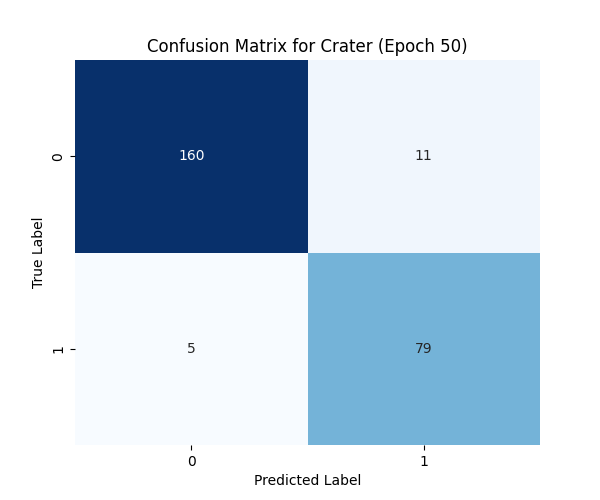
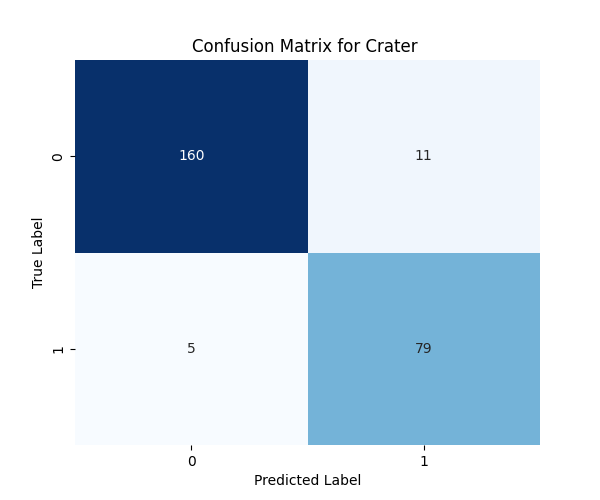
chang confuson metrix to normalize

Changed region(s): [[0.24, 0.06, 0.78, 0.12]]

diff --git a/code/greyscale/classify_2D.py b/code/greyscale/classify_2D.py
@@ -25,7 +25,7 @@ warnings.filterwarnings("ignore", category=FutureWarning, module="torch")
 
 # Global variables
 results = []
-MODEL_NAME = "greyscale_testrun_run_5"
+MODEL_NAME = "greyscale_testrun_run_1"
 DATASET_DIR = "./dataset_agreed"
 IMAGE_SIZE = (150,150)
 NUM_LABELS = 4
@@ -193,12 +193,28 @@ def classify_images(MODEL_PATH, epoch, MODEL_NAME):
           f"Balanced Recall = {bal_recall_lbl:.4f}")
         
         # Generate and save confusion matrix for each label
+        cm_normal = confusion_matrix(true_for_label, pred_for_label, normalize='true')
+        print(f"Normalized confusion matrix for {label_name}:\n{cm_normal}")
+        plt.figure(figsize=(6, 5))
+        sns.heatmap(cm_normal, annot=True, fmt='.2f', cmap='Blues', cbar=False,
+                    xticklabels=['0', '1'],
+                    yticklabels=['0', '1'])
+        plt.title(f'Confusion Matrix for {label_name} ')
+        plt.xlabel('Predicted Label')
+        plt.ylabel('True Label')
+        cm_output_path = epoch_output_dir / f"confusion_matrix_normalized_{label_name}.png"
+        plt.savefig(cm_output_path)
+        plt.close()
+        print(f"Confusion matrix for {label_name} saved to {cm_output_path}")
+
+        # Generate and save confusion matrix for each label
         cm = confusion_matrix(true_for_label, pred_for_label)
+        print(f"Confusion matrix for {label_name} (counts):\n{cm}")
         plt.figure(figsize=(6, 5))
         sns.heatmap(cm, annot=True, fmt='d', cmap='Blues', cbar=False,
                     xticklabels=['0', '1'],
                     yticklabels=['0', '1'])
-        plt.title(f'Confusion Matrix for {label_name} (Epoch {epoch})')
+        plt.title(f'Confusion Matrix for {label_name} ')
         plt.xlabel('Predicted Label')
         plt.ylabel('True Label')
         cm_output_path = epoch_output_dir / f"confusion_matrix_{label_name}.png"
@@ -206,7 +222,6 @@ def classify_images(MODEL_PATH, epoch, MODEL_NAME):
         plt.close()
         print(f"Confusion matrix for {label_name} saved to {cm_output_path}")
 
-    #multilabel consufion mayrix
     num_labels = len(dataset.label_cols)
     multi_label_cm = np.zeros((num_labels, num_labels), dtype=int)
     for true_vec, pred_vec in zip(all_true_labels, all_predicted_binary_labels):
@@ -215,15 +230,30 @@ def classify_images(MODEL_PATH, epoch, MODEL_NAME):
         for t in true_indices:
             for p in pred_indices:
                 multi_label_cm[t, p] += 1
+    
+    print("Multi-label confusion matrix (counts):")
+    print(multi_label_cm)
 
+    # normalize by row
+    row_sums = multi_label_cm.sum(axis=1, keepdims=True)
+    multi_label_cm_normalized = np.divide(
+        multi_label_cm, row_sums, 
+        out=np.zeros_like(multi_label_cm, dtype=float), 
+        where=row_sums != 0
+    )
+
+    # Print normalized multi-label confusion matrix
+    print("Normalized multi-label confusion matrix:")
+    print(np.round(multi_label_cm_normalized, 4))
+    
     plt.figure(figsize=(8, 6))
-    sns.heatmap(multi_label_cm, annot=True, fmt='d', cmap='Blues',
+    sns.heatmap(multi_label_cm_normalized, annot=True, fmt='.2f', cmap='Blues',
                 xticklabels=dataset.label_cols,
                 yticklabels=dataset.label_cols)
     plt.xlabel('Predicted Label')
     plt.ylabel('True Label')
-    plt.title(f'Multi-label Confusion Matrix (Epoch {epoch})')
-    multi_label_cm_path = epoch_output_dir / "multi_label_confusion_matrix.png"
+    plt.title('Normalized Multi-label Confusion Matrix')
+    multi_label_cm_path = epoch_output_dir / "multi_label_confusion_matrix_normalized.png"
     plt.savefig(multi_label_cm_path)
     plt.close()
     print(f"Multi-label confusion matrix saved to {multi_label_cm_path}")
@@ -232,19 +262,19 @@ def classify_images(MODEL_PATH, epoch, MODEL_NAME):
     true_classes = np.argmax(all_true_labels, axis=1)
     pred_classes = np.argmax(all_predicted_binary_labels, axis=1)
 
-    multi_class_cm = confusion_matrix(true_classes, pred_classes)
+    # multi_class_cm = confusion_matrix(true_classes, pred_classes,normalize='true')
 
-    plt.figure(figsize=(8, 6))
-    sns.heatmap(multi_class_cm, annot=True, fmt='d', cmap='Oranges',
-                xticklabels=dataset.label_cols,
-                yticklabels=dataset.label_cols)
-    plt.xlabel('Predicted')
-    plt.ylabel('True')
-    plt.title(f'Multi-class Confusion Matrix (Epoch {epoch})')
-    multi_class_cm_path = epoch_output_dir / "multi_class_confusion_matrix.png"
-    plt.savefig(multi_class_cm_path)
-    plt.close()
-    print(f"Multi-class confusion matrix saved to {multi_class_cm_path}")
+    # plt.figure(figsize=(8, 6))
+    # sns.heatmap(multi_class_cm, annot=True, fmt='.2f', cmap='Oranges',
+    #             xticklabels=dataset.label_cols,
+    #             yticklabels=dataset.label_cols)
+    # plt.xlabel('Predicted')
+    # plt.ylabel('True')
+    # plt.title(f'Multi-class Confusion Matrix')
+    # multi_class_cm_path = epoch_output_dir / "multi_class_confusion_matrix_normalized.png"
+    # plt.savefig(multi_class_cm_path)
+    # plt.close()
+    # print(f"Multi-class confusion matrix saved to {multi_class_cm_path}")
 
     #calculate avg inference time per sample
     avg_inference_time = np.mean(inference_times)
@@ -277,36 +307,36 @@ def classify_images(MODEL_PATH, epoch, MODEL_NAME):
     
     # Save results to a text file
     txt_output_path = epoch_output_dir / "multi_label_scores.txt"
-    with open(txt_output_path, "a") as f:
-        f.write(f"\n--- Epoch {epoch}, Model: {MODEL_NAME} ---\n")
-        f.write(f"{datetime.datetime.now()}---\n")
-        f.write(f"nr of inputpoints 150x150---\n")
+    # with open(txt_output_path, "a") as f:
+    #     f.write(f"\n--- Epoch {epoch}, Model: {MODEL_NAME} ---\n")
+    #     f.write(f"{datetime.datetime.now()}---\n")
+    #     f.write(f"nr of inputpoints 150x150---\n")
 
-        total_inference_time = sum(inference_times)
-        avg_inference_time = np.mean(inference_times)
-        f.write(f"Total inference time: {total_inference_time:.4f} seconds\n")
-        f.write(f"Average inference time per sample: {avg_inference_time:.6f} seconds\n")
+    #     total_inference_time = sum(inference_times)
+    #     avg_inference_time = np.mean(inference_times)
+    #     f.write(f"Total inference time: {total_inference_time:.4f} seconds\n")
+    #     f.write(f"Average inference time per sample: {avg_inference_time:.6f} seconds\n")
         
-        f.write(f"Mean Label Accuracy: {mean_label_accuracy:.2f}%\n")
-        f.write(f"Mean Label F1 Score: {mean_label_f1:.4f}\n")
-        f.write(f"Instance (Exact Match) Accuracy: {instance_accuracy:.2f}%\n")
+    #     f.write(f"Mean Label Accuracy: {mean_label_accuracy:.2f}%\n")
+    #     f.write(f"Mean Label F1 Score: {mean_label_f1:.4f}\n")
+    #     f.write(f"Instance (Exact Match) Accuracy: {instance_accuracy:.2f}%\n")
         
-        f.write("Per-Label Metrics:\n")
-        for label_name, acc, f1 in zip(dataset.label_cols, per_label_accuracy, per_label_f1):
-            idx = dataset.label_cols.index(label_name)
-            true_for_label = all_true_labels[:, idx]
-            pred_for_label = all_predicted_binary_labels[:, idx]
-            bal_acc_lbl = balanced_accuracy_score(true_for_label, pred_for_label) * 100
-            bal_prec_lbl = precision_score(true_for_label, pred_for_label, zero_division=0)
-            bal_recall_lbl = recall_score(true_for_label, pred_for_label, zero_division=0)
-            f.write(f"   {label_name}: Accuracy = {acc:.2f}%, F1 = {f1:.4f}, "
-                    f"Balanced Acc = {bal_acc_lbl:.2f}%, "
-                    f"Balanced Precision = {bal_prec_lbl:.4f}, "
-                    f"Balanced Recall = {bal_recall_lbl:.4f}\n")
+    #     f.write("Per-Label Metrics:\n")
+    #     for label_name, acc, f1 in zip(dataset.label_cols, per_label_accuracy, per_label_f1):
+    #         idx = dataset.label_cols.index(label_name)
+    #         true_for_label = all_true_labels[:, idx]
+    #         pred_for_label = all_predicted_binary_labels[:, idx]
+    #         bal_acc_lbl = balanced_accuracy_score(true_for_label, pred_for_label) * 100
+    #         bal_prec_lbl = precision_score(true_for_label, pred_for_label, zero_division=0)
+    #         bal_recall_lbl = recall_score(true_for_label, pred_for_label, zero_division=0)
+    #         f.write(f"   {label_name}: Accuracy = {acc:.2f}%, F1 = {f1:.4f}, "
+    #                 f"Balanced Acc = {bal_acc_lbl:.2f}%, "
+    #                 f"Balanced Precision = {bal_prec_lbl:.4f}, "
+    #                 f"Balanced Recall = {bal_recall_lbl:.4f}\n")
         
-        f.write("ROC AUC for each label:\n")
-        for label_name, data in roc_data.items():
-            f.write(f"   {label_name}: AUC = {data['auc']:.4f}\n")
+    #     f.write("ROC AUC for each label:\n")
+    #     for label_name, data in roc_data.items():
+    #         f.write(f"   {label_name}: AUC = {data['auc']:.4f}\n")
 
     print(f"Evaluation results saved to {txt_output_path}")
 
@@ -325,7 +355,7 @@ def classify_images(MODEL_PATH, epoch, MODEL_NAME):
     
     writer = pd.ExcelWriter(excel_output_path, engine='xlsxwriter')
 
-    df_results.to_excel(writer, sheet_name='Predictions', index=False)
+    # df_results.to_excel(writer, sheet_name='Predictions', index=False)
 
     workbook = writer.book
     worksheet = writer.sheets['Predictions']
@@ -340,7 +370,7 @@ if __name__ == "__main__":
     all_epochs_roc_data = [] 
 
     # Iterate through saved model checkpoints, they are saved every 10 epochs
-    for epoch in range(0, 151, 10):
+    for epoch in range(40, 41, 10):
         MODEL_PATH = f"dataset_agreed/saved_models/baserun/{MODEL_NAME}/model_epoch_{epoch}.pth"
         # if model does not exist, skip
         if not os.path.exists(MODEL_PATH):
@@ -382,6 +412,6 @@ if __name__ == "__main__":
 
         output_dir = Path(f"{DATASET_DIR}/saved_models/baserun/{MODEL_NAME}/")
         os.makedirs(output_dir, exist_ok=True)
-        plt.savefig(os.path.join(output_dir, f"combined_roc_curve_{label_name}.png"))
+        # plt.savefig(os.path.join(output_dir, f"combined_roc_curve_{label_name}.png"))
         plt.show()
         plt.close()

diff --git a/code/pointcloud/classify_pointcloud.py b/code/pointcloud/classify_pointcloud.py
@@ -203,6 +203,20 @@ def classify_point_clouds(epoch):
         plt.close()
         print(f"Confusion matrix for {label_name} saved to {cm_output_path}")
 
+        # Generate and save confusion matrix for each label
+        cm_normalized = confusion_matrix(true_for_label, pred_for_label, normalize='true')
+        plt.figure(figsize=(6, 5))
+        sns.heatmap(cm_normalized, annot=True, fmt='.2f', cmap='Blues', cbar=False,
+                    xticklabels=['0', '1'],
+                    yticklabels=['0', '1'])
+        plt.title(f'Confusion Matrix for {label_name} (Epoch {epoch})')
+        plt.xlabel('Predicted Label')
+        plt.ylabel('True Label')
+        cm_output_path = epoch_output_dir / f"confusion_matrix_normalized_{label_name}.png"
+        plt.savefig(cm_output_path)
+        plt.close()
+        print(f"Confusion matrix for {label_name} saved to {cm_output_path}")
+
     # Calculate overall mean metrics
     mean_label_accuracy = np.mean(per_label_accuracy)
     mean_label_f1 = np.mean(per_label_f1)
@@ -234,6 +248,21 @@ def classify_point_clouds(epoch):
             for p in np.where(p_vec==1)[0]:
                 multi_label_cm[t,p] += 1
 
+    print("Multi-label confusion matrix (counts):")
+    print(multi_label_cm)
+
+    # normalize by row
+    row_sums = multi_label_cm.sum(axis=1, keepdims=True)
+    multi_label_cm_normalized = np.divide(
+        multi_label_cm, row_sums, 
+        out=np.zeros_like(multi_label_cm, dtype=float), 
+        where=row_sums != 0
+    )
+
+    # Print normalized multi-label confusion matrix
+    print("Normalized multi-label confusion matrix:")
+    print(np.round(multi_label_cm_normalized, 4))
+
     plt.figure(figsize=(8,6))
     sns.heatmap(multi_label_cm, annot=True, fmt='d', cmap='Blues',
                 xticklabels=dataset.label_cols, yticklabels=dataset.label_cols)
@@ -257,31 +286,31 @@ def classify_point_clouds(epoch):
 
     # Save results to a text file
     # Save results to a text file
-    txt_output_path = epoch_output_dir / "multi_label_scores.txt"
-    with open(txt_output_path, "a") as f:
-        f.write(f"\n--- Epoch {epoch}, Model: {MODEL_NAME} ---\n")
-        f.write(f"{datetime.datetime.now()}---\n")
-        f.write(f"nr of inputpoints {NUM_POINTS}---\n")
-        f.write(f"Total inference time: {total_inference_time:.4f} seconds\n")
-        f.write(f"Average inference time per sample: {avg_inference_time:.6f} seconds\n")
-        f.write(f"Mean Label Accuracy: {mean_label_accuracy:.2f}%\n")
-        f.write(f"Mean Label F1 Score: {mean_label_f1:.4f}\n")
-        f.write(f"Instance (Exact Match) Accuracy: {instance_accuracy:.2f}%\n")
-        f.write("Per-Label Metrics:\n")
-        for label_name, acc, f1 in zip(dataset.label_cols, per_label_accuracy, per_label_f1):
-            idx = dataset.label_cols.index(label_name)
-            true_for_label = all_true_labels[:, idx]
-            pred_for_label = all_predicted_binary_labels[:, idx]
-            bal_acc_lbl = balanced_accuracy_score(true_for_label, pred_for_label) * 100
-            bal_prec_lbl = precision_score(true_for_label, pred_for_label, zero_division=0)
-            bal_recall_lbl = recall_score(true_for_label, pred_for_label, zero_division=0)
-            f.write(f"   {label_name}: Accuracy = {acc:.2f}%, F1 = {f1:.4f}, "
-                    f"Balanced Acc = {bal_acc_lbl:.2f}%, "
-                    f"Balanced Precision = {bal_prec_lbl:.4f}, "
-                    f"Balanced Recall = {bal_recall_lbl:.4f}\n")
-        f.write("ROC AUC for each label:\n")
-        for l, data in roc_data.items():
-            f.write(f"   {l}: AUC = {data['auc']:.4f}\n")
+    # txt_output_path = epoch_output_dir / "multi_label_scores.txt"
+    # with open(txt_output_path, "a") as f:
+    #     f.write(f"\n--- Epoch {epoch}, Model: {MODEL_NAME} ---\n")
+    #     f.write(f"{datetime.datetime.now()}---\n")
+    #     f.write(f"nr of inputpoints {NUM_POINTS}---\n")
+    #     f.write(f"Total inference time: {total_inference_time:.4f} seconds\n")
+    #     f.write(f"Average inference time per sample: {avg_inference_time:.6f} seconds\n")
+    #     f.write(f"Mean Label Accuracy: {mean_label_accuracy:.2f}%\n")
+    #     f.write(f"Mean Label F1 Score: {mean_label_f1:.4f}\n")
+    #     f.write(f"Instance (Exact Match) Accuracy: {instance_accuracy:.2f}%\n")
+    #     f.write("Per-Label Metrics:\n")
+    #     for label_name, acc, f1 in zip(dataset.label_cols, per_label_accuracy, per_label_f1):
+    #         idx = dataset.label_cols.index(label_name)
+    #         true_for_label = all_true_labels[:, idx]
+    #         pred_for_label = all_predicted_binary_labels[:, idx]
+    #         bal_acc_lbl = balanced_accuracy_score(true_for_label, pred_for_label) * 100
+    #         bal_prec_lbl = precision_score(true_for_label, pred_for_label, zero_division=0)
+    #         bal_recall_lbl = recall_score(true_for_label, pred_for_label, zero_division=0)
+    #         f.write(f"   {label_name}: Accuracy = {acc:.2f}%, F1 = {f1:.4f}, "
+    #                 f"Balanced Acc = {bal_acc_lbl:.2f}%, "
+    #                 f"Balanced Precision = {bal_prec_lbl:.4f}, "
+    #                 f"Balanced Recall = {bal_recall_lbl:.4f}\n")
+    #     f.write("ROC AUC for each label:\n")
+    #     for l, data in roc_data.items():
+    #         f.write(f"   {l}: AUC = {data['auc']:.4f}\n")
 
     print(f"Evaluation results saved to {txt_output_path}")
 
